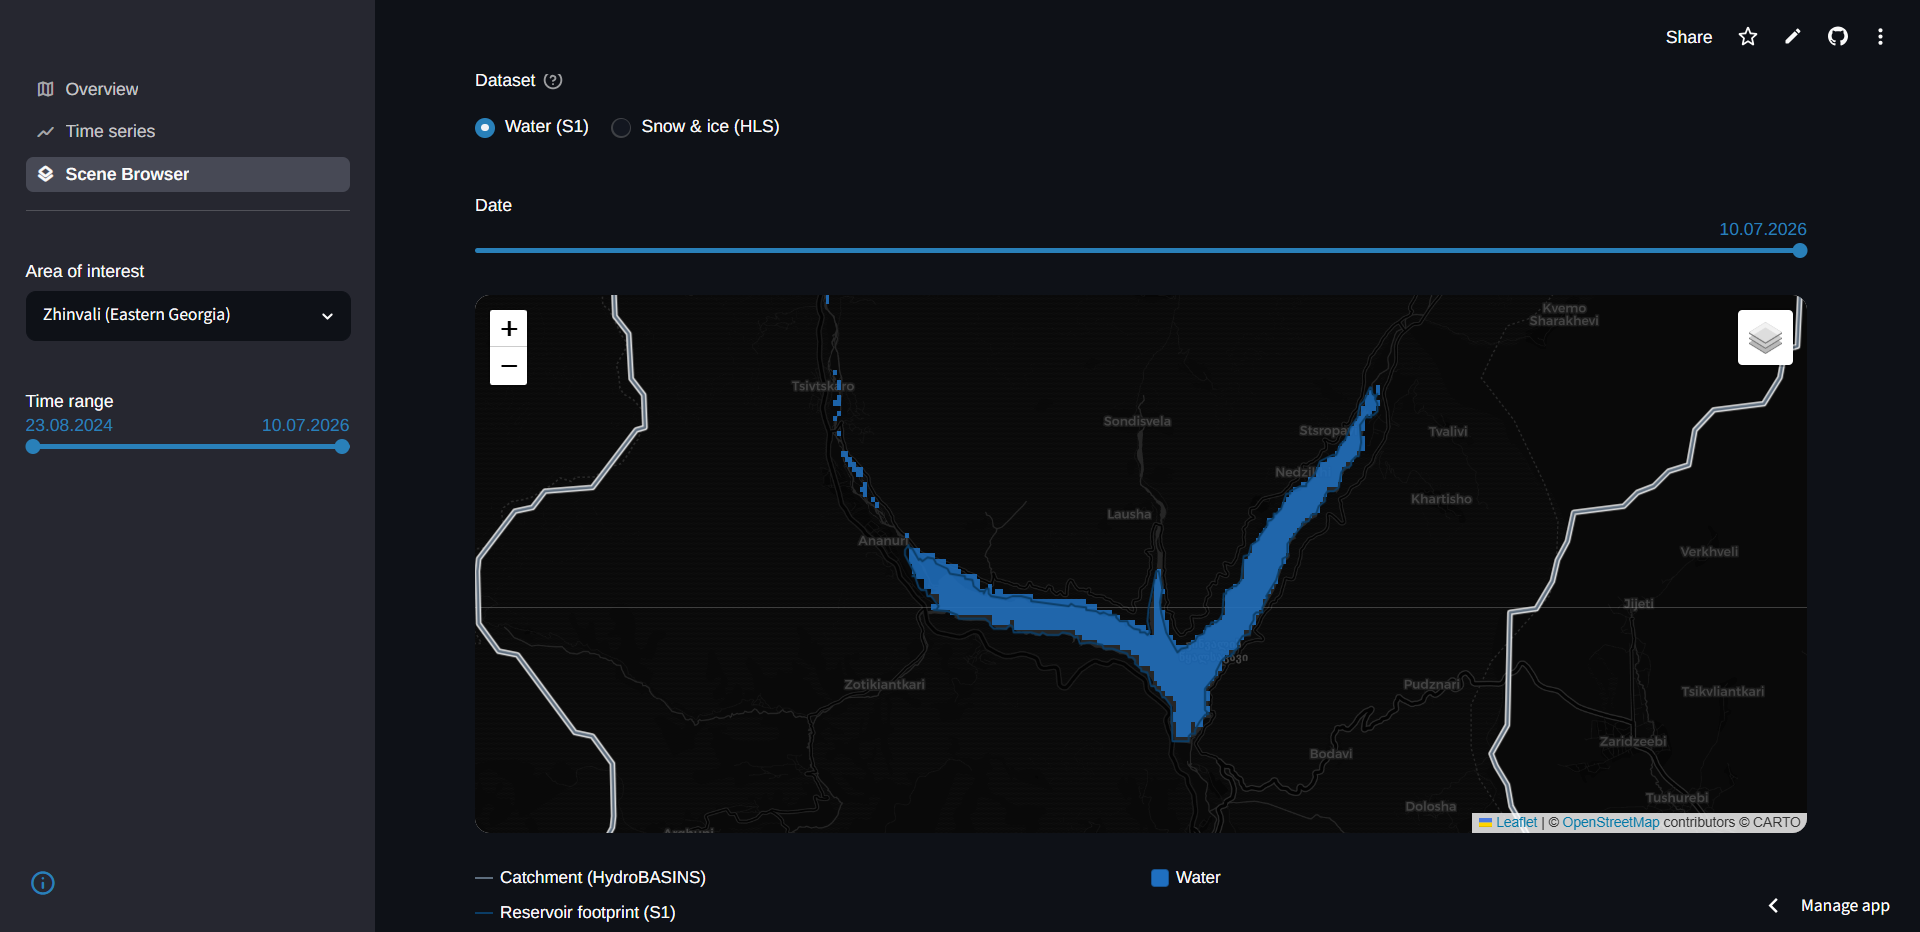
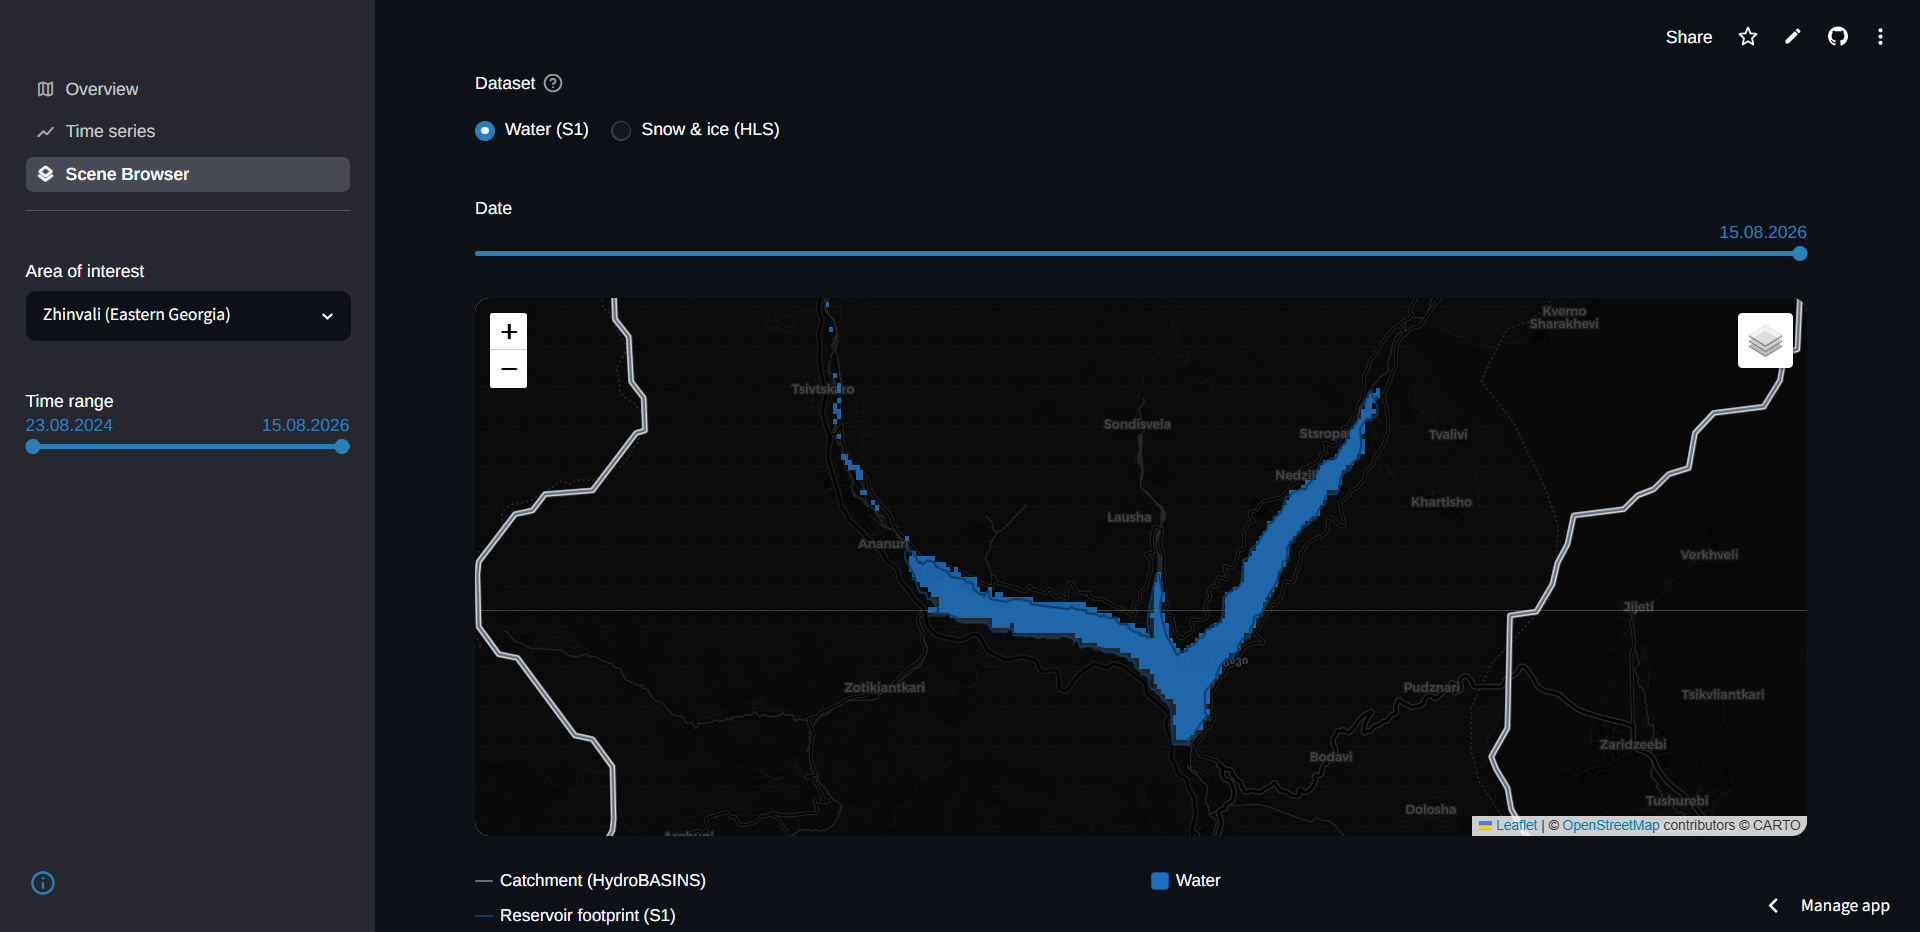
Refresh screenshots, correct dated figures, prune stale overlays, add dev container
Replace all six README screenshots with captures from the current app and
note the capture date, since the weekly auto-update keeps extending both
series. Update the S1 figures to the 2026-08-17 state: Enguri 54 and
Zhinvali 56 scenes, with the Enguri anchor imaging the catchment in full
on all 54 cycles.

Drop two Zhinvali overlays, 20241129 and 20251112, that had no row in the
time series. They were rendered under earlier coverage thresholds and fell
out of the series on a later recompute, but render_overlays.py does not
prune stale PNGs, so the overview counted 58 S1 scenes against 56 rows and
the scene browser offered two dates absent from the charts. All four series
now match their overlay directories exactly.

Correct the Tbilisi water claim. Georgian Water and Power puts Zhinvali at
about half of the city's drinking water supply, not most of it. Use the
Tskhinvali region as the primary name, matching Georgian official usage,
and name Samegrelo for the dam site instead of describing it as the
Georgian-controlled side.

Name Tielidze et al. (2026) in Future work as a concrete replacement for
the 1999 to 2002 RGI v7 mask: a high-resolution Greater Caucasus inventory
for 2025 reporting 1.8% area loss per year since 2014. Citation verified
against Crossref (10.3390/rs18091441).

Add a dev container so the dashboard runs from a Codespace in one click.
It installs requirements.txt and serves app.py on port 8501; a comment
[…]

diff --git a/README.md b/README.md
@@ -23,13 +23,16 @@ The interactive Streamlit dashboard gives each area of interest three linked pag
 
 ![Scene browser showing the reservoir water extent from Sentinel-1 (Zhinvali)](assets/scene-browser-water-s1-zhinvali.png)
 
+Screenshots taken in August 2026. The weekly auto-update keeps extending both series, so the live
+app shows more scenes than these figures.
+
 ---
 
 ## Motivation
 
 Georgia's electricity supply depends on hydropower for roughly 80% of generation (International Energy Agency, 2023). Seasonal snowmelt and rainfall drive most of the inflow into the reservoirs, while glacier melt of the Greater Caucasus adds a smaller but climate-sensitive contribution that sustains the rivers in late summer once the seasonal snow is gone. Climate change is reshaping this balance: warmer winters shift precipitation from snow to rain and shrink the glaciers, which makes the inflow more variable and harder to plan for.
 
-This matters because both reservoirs studied here sit directly next to the Russia-controlled territories of Abkhazia (Enguri) and South Ossetia (Zhinvali). The Enguri complex is shared across that boundary, with the dam on the Georgian-controlled side and the power station inside Abkhazia, so its operation depends on a fragile cross-boundary arrangement. Enguri and its downstream Vardnili cascade together supplied about 36% of Georgia's hydropower generation in the 2017/18 winter season (Lobjanidze et al., 2019). Zhinvali supplies most of the drinking water and a large share of the power for Tbilisi from a catchment that reaches towards South Ossetia. Ground access to these headwaters is limited and politically sensitive, so satellite monitoring is the practical way to track the snow, glacier and water that feed two reservoirs critical to Georgia's energy and water security.
+This matters because both reservoirs studied here sit directly next to the Russia-controlled territories of Abkhazia (Enguri) and the Tskhinvali region, also known as South Ossetia (Zhinvali). The Enguri complex is shared across that boundary, with the dam upstream in Samegrelo and the power station inside Abkhazia, so its operation depends on a fragile cross-boundary arrangement. Enguri and its downstream Vardnili cascade together supplied about 36% of Georgia's hydropower generation in the 2017/18 winter season (Lobjanidze et al., 2019). The utility Georgian Water and Power puts Zhinvali at about half of Tbilisi's drinking water supply, and the reservoir also carries a share of the city's power, from a catchment that reaches towards the Tskhinvali region. Ground access to these headwaters is limited and politically sensitive, so satellite monitoring is the practical way to track the snow, glacier and water that feed two reservoirs critical to Georgia's energy and water security.
 
 ---
 
@@ -111,7 +114,7 @@ The reservoir and the glaciers can sit in different MGRS tiles (for example Zhin
 
 ### S1 orbit dedup
 
-SAR water classification depends on the acquisition geometry (layover and shadow vary with the ascending or descending orbit), so mixing orbits in one series produces an artificial sawtooth. `extract_timeseries.py` therefore fixes S1 to **one** relative orbit per AOI (`s1_anchor`: Enguri 2024-08-30, Zhinvali 2024-08-25) and keeps only that 12-day repeat phase (`ordinal % 12`), so only about 1/4 of the dates are downloaded. A date enters the series when either the whole catchment or just the reservoir is fully observed (the coverage gate, see the Quality filters table); on a rare catchment-partial date the fully observed reservoir is kept and the non-comparable `water_km2` set to `NaN`. The Enguri anchor images the catchment in full on 50 of 51 cycles, so its basin-wide `water_km2` is essentially gap-free. The result is a clean, geometrically consistent 12-day series (Enguri 51, Zhinvali 53 scenes as of 2026-07-20; the weekly auto-update below keeps extending both series with new dates).
+SAR water classification depends on the acquisition geometry (layover and shadow vary with the ascending or descending orbit), so mixing orbits in one series produces an artificial sawtooth. `extract_timeseries.py` therefore fixes S1 to **one** relative orbit per AOI (`s1_anchor`: Enguri 2024-08-30, Zhinvali 2024-08-25) and keeps only that 12-day repeat phase (`ordinal % 12`), so only about 1/4 of the dates are downloaded. A date enters the series when either the whole catchment or just the reservoir is fully observed (the coverage gate, see the Quality filters table); on a rare catchment-partial date the fully observed reservoir is kept and the non-comparable `water_km2` set to `NaN`. The Enguri anchor images the catchment in full on all 54 cycles, so its basin-wide `water_km2` is gap-free. The result is a clean, geometrically consistent 12-day series (Enguri 54, Zhinvali 56 scenes as of 2026-08-17; the weekly auto-update below keeps extending both series with new dates).
 
 **Orbit selection (`probe_coverage.py`).** First stages A and B (footprint plus true pixel coverage on test files) yield candidate phases with about 99% coverage. But **coverage is not the same as measurement quality for the reservoir**: a second check (`--compare-orbit`) measures `reservoir_area_km2` for a few dates of a neighbouring orbit and places them next to the existing series. The **one day neighbouring orbit** is a precision test, because at one day spacing the level barely changes, so any difference is pure orbit and geometry noise. The result is a reservoir error bound of about ±0.2 km² (Zhinvali) and about ±0.2 km² (Enguri). A 2026 re-probe (after Sentinel-1C data joined DSWx-S1) confirmed that Enguri phase 7 both images the full catchment and agrees with the neighbouring orbit on the lake (full-year mean 7.23 vs 7.15 km², autumn 7.35 vs 7.27 km²), which retired the earlier concern that this phase under-detected the lake in autumn. The Enguri anchor is therefore phase 7 (2024-08-30).
 
@@ -178,7 +181,7 @@ S1 series (`*_s1_timeseries.parquet`):
 ## Caveats
 
 * **Water is underestimated, most of all away from the reservoir.** DSWx-S1 reliably captures large, calm open water such as the reservoir body, but it misses most narrow mountain rivers and streams, which fall below the 30 m pixel. Radar geometry in steep terrain adds error, because layover, foreshortening and radar shadow in the deep valleys leave parts of a water body unclassified, and wind-roughened water raises backscatter and is easily missed. The AOI-wide `water_km2` is therefore a lower bound on the true wetted area, not a complete water census. The reservoir footprint is the most trustworthy water figure, since it is large, calm and observed repeatedly. Even there, a deep gorge reservoir like Enguri changes level far more than area, so area stays a weak proxy for storage.
-* **Glaciers are not detected from the imagery.** The glacier outlines come from the Randolph Glacier Inventory v7. For the Greater Caucasus these outlines were digitised from Landsat imagery of 1999 to 2002, so the glacier mask predates the study window by more than twenty years. The Caucasus has seen substantial glacier retreat since then (Tielidze et al., 2025), so the fixed mask overstates today's ice extent and cannot track that change. HLS only classifies snow on or off those static polygons, and the optical snow and ice split is coarse, because shaded slopes, thin cloud and debris-covered ice all blur the boundary. A newer RGI release with updated outlines was not available at the time of writing (see [Future work](#future-work)).
+* **Glaciers are not detected from the imagery.** The glacier outlines come from the Randolph Glacier Inventory v7. For the Greater Caucasus these outlines were digitised from Landsat imagery of 1999 to 2002, so the glacier mask predates the study window by more than twenty years. The Caucasus has seen substantial glacier retreat since then (Tielidze et al., 2025), so the fixed mask overstates today's ice extent and cannot track that change. HLS only classifies snow on or off those static polygons, and the optical snow and ice split is coarse, because shaded slopes, thin cloud and debris-covered ice all blur the boundary. No newer RGI release was available at the time of writing, although an independent high-resolution inventory of the range has since been published (Tielidze et al., 2026; see [Future work](#future-work)).
 * **`bare_ice_km2` is an exclusion, not a direct detection.** DSWx-HLS carries no separate bare-ice class. The figure is the glacier mask area left over once the currently snow-covered part is subtracted, so it is a melt indicator inside a fixed glacier mask, not a measurement of glacier change. The same optical snow flag misfires over glacier-fed rivers too, where fine rock flour brightens the water enough to push the NDSI-based classifier into flagging fast, sediment-laden reaches as snow. A sub-metre optical cross-check could separate genuine snow from turbid water, but was out of scope here.
 * **The optical (HLS) series is sparse.** The Greater Caucasus is cloudy for most of the year, so the 30% cloud filter passes only a minority of dates and the seasonal-snow series carries genuine multi-month gaps, mainly in autumn and winter (Zhang et al., 2024). The coverage-corrected `seasonal_snow_km2_est` fills the unobserved fraction with the observed snow rate, which assumes the clouded area behaves like the clear area on the same day. That assumption weakens as cloud cover grows, and there is no independent way to test it without in-situ snow-course data.
 * **No ground truth and no absolute volumes.** The project reports areas from open satellite products without in-situ discharge, snow-course or reservoir-level data, so the numbers are internally consistent relative signals, not validated absolute quantities. Freely available DEMs capture the reservoirs as a flat surface with no bathymetry, and satellite altimetry does not cover these small mountain lakes, so storage is tracked through area rather than an absolute level. The results show relative seasonal and interannual dynamics well, but they do not replace gauged measurements.
@@ -187,7 +190,11 @@ S1 series (`*_s1_timeseries.parquet`):
 
 Beyond the sensor separation, coverage-corrected snow estimate and reservoir guard already in place, the natural next step is a snowmelt-to-inflow lag correlation between the HLS snow series and the S1 reservoir signal, quantifying how many days of lag best explain the reservoir response to melt. An early version of this was prototyped during development and dropped again, since a single cross-correlation plot added more visual clutter than insight for a first dashboard release; it remains a reasonable follow-up once the underlying series cover a longer multi-year baseline.
 
-**Measuring the glaciers themselves, not just a frozen RGI outline.** RGI v7's Greater Caucasus polygons were digitised once from Landsat imagery of 1999 to 2002, so `bare_ice_km2` tracks melt inside a boundary that has not moved in over twenty years while the real glaciers have retreated substantially. Updating it needs an actual, repeatable glacier-mapping method, not just a newer static download:
+**Measuring the glaciers themselves, not just a frozen RGI outline.** RGI v7's Greater Caucasus polygons were digitised once from Landsat imagery of 1999 to 2002, so `bare_ice_km2` tracks melt inside a boundary that has not moved in over twenty years while the real glaciers have retreated substantially. One newer inventory does now exist: Tielidze et al. (2026) mapped the Greater Caucasus at high
+resolution for 2025 and report a mean area loss of 1.8% per year since 2014, which would give the
+project a mask roughly a quarter of a century closer to the study window than RGI v7. Swapping it in
+is the cheap first step, but it is still a single static snapshot. Tracking the change itself needs a
+repeatable glacier-mapping method:
 - **Optical band-ratio classification** (red/SWIR or NDSI thresholding) on cloud-free Sentinel-2 or Landsat scenes is the standard automated method used to build RGI itself, and it could be rerun periodically on current imagery instead of relying on the one-time 1999-2002 digitisation. It fails on debris-covered ice, though, where rock and soil hide the ice underneath.
 - **A supervised classifier trained on labelled optical imagery** would handle the debris-covered case; a recent high-resolution PlanetScope-based map of this project's own Enguri headwaters (Nadaraia et al., 2026) could supply the training labels.
 - **Raw Sentinel-1 SAR coherence** could add a radar-based check independent of cloud cover: coherence collapses over moving, deforming ice but stays high over static bare rock, the same change-detection principle this author's [el-geneina-insar](https://github.com/sebastianmry/el-geneina-insar) project applied to building damage.
@@ -285,6 +292,7 @@ Python 3.11, earthaccess, rasterio, rioxarray, geopandas, shapely, numpy, scipy,
 - Nadaraia, A., Tielidze, L. G., Mackintosh, A. N., Jones, R. S., & Jomelli, V. (2026). Glacial geomorphology of the Enguri River headwaters, Georgian Caucasus. *Journal of Maps*, 22(1), Article 2607213. https://doi.org/10.1080/17445647.2025.2607213
 - Souza, W. O., Reis, L. G. M., Ruiz-Armenteros, A. M., Veleda, D., Ribeiro Neto, A., Fragoso Jr., C. R., Cabral, J. J. S. P., & Montenegro, S. M. G. L. (2022). Analysis of environmental and atmospheric influences in the use of SAR and optical imagery from Sentinel-1, Landsat-8, and Sentinel-2 in the operational monitoring of reservoir water level. *Remote Sensing*, 14(9), Article 2218. https://doi.org/10.3390/rs14092218
 - Tielidze, L. G., Mackintosh, A. N., Gavashelishvili, A., Gadrani, L., Nadaraia, A., & Elashvili, M. (2025). Post-Little Ice Age equilibrium-line altitude and temperature changes in the Greater Caucasus based on small glaciers. *Remote Sensing*, 17(9), Article 1486. https://doi.org/10.3390/rs17091486
+- Tielidze, L. G., Nosenko, G. A., Nadaraia, A., Khromova, T. E., Kumladze, R. M., Clason, C. C., Elashvili, M., & Gadrani, L. (2026). A 2025 high-resolution glacier inventory of the Greater Caucasus reveals accelerated area loss. *Remote Sensing*, 18(9), Article 1441. https://doi.org/10.3390/rs18091441
 - Zhang, Y., Ye, C., Yang, R., & Li, K. (2024). Reconstructing snow cover under clouds and cloud shadows by combining Sentinel-2 and Landsat 8 images in a mountainous region. *Remote Sensing*, 16(1), Article 188. https://doi.org/10.3390/rs16010188
 
 ## Data licences and attribution

diff --git a/PROJECT_CONTEXT.md b/PROJECT_CONTEXT.md
@@ -12,14 +12,14 @@ display fields).
 ### AOI 1: Enguri (Western Georgia / Svaneti)
 - `clip_box` (catchment bbox + 0.02° buffer): (41.8467, 42.7294, 43.1658, 43.2783)
 - Catchment area: ~3,139 km² (HydroBASINS lev12, converged from lev09)
-- Dam / pour point: (42.032, 42.753); `s1_anchor` 20240830 (phase 7), 51 S1 scenes (as of 2026-07-20, growing weekly)
+- Dam / pour point: (42.032, 42.753); `s1_anchor` 20240830 (phase 7), 54 S1 scenes (as of 2026-08-17, growing weekly)
 - Heavily glaciated Svaneti headwaters; the box reaches to ~43.17 E to include the eastern
   Ushguli source rivers.
 
 ### AOI 2: Zhinvali (Eastern Georgia / Kazbegi)
 - `clip_box` (catchment bbox + 0.02° buffer): (44.3133, 42.0008, 45.245, 42.6283)
 - Catchment area: ~2,089 km² (HydroBASINS lev12, converged from lev10)
-- Dam / pour point: (44.771, 42.133); `s1_anchor` 20240825, 53 S1 scenes (as of 2026-07-20, growing weekly)
+- Dam / pour point: (44.771, 42.133); `s1_anchor` 20240825, 56 S1 scenes (as of 2026-08-17, growing weekly)
 - Aragvi basin up to ~42.61 N. The Kazbek/Gergeti glaciers drain north into the Terek and
   are correctly excluded.
 
@@ -57,7 +57,7 @@ EPSG:4326, merged into one mosaic, clipped to the `clip_box` and padded to the f
   whole catchment is fully imaged (`valid_px_pct >= S1_MIN_VALID_PCT = 90%`) **or** the
   reservoir itself is fully observed (`reservoir_valid_pct >= RESERVOIR_MIN_COVER = 95%`). The
   Enguri anchor was reselected to phase 7 (2026-07-03 re-probe), which fully images the
-  catchment on 50 of 51 cycles, so its basin-wide `water_km2` is now gap-free; the previous
+  catchment on all 54 cycles, so its basin-wide `water_km2` is now gap-free; the previous
   phase-6 anchor missed the eastern Svaneti headwaters on most cycles (catchment coverage
   ~59%) and left `water_km2` NaN on those dates. The gate still runs as defense-in-depth: on
   any rare partial-catchment date it keeps the fully observed reservoir (`reservoir_area_km2`)
